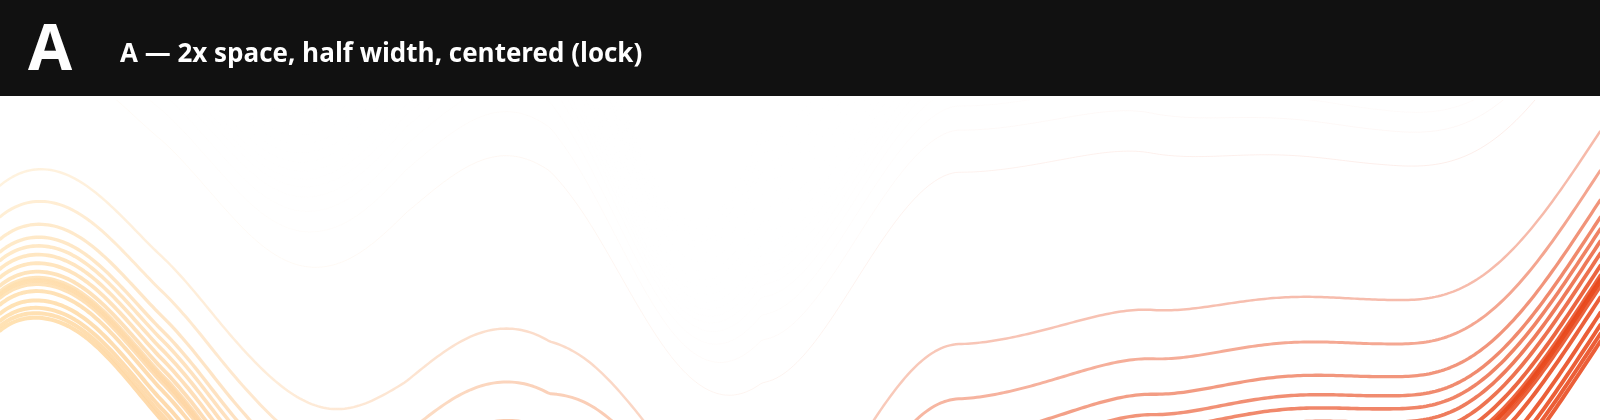
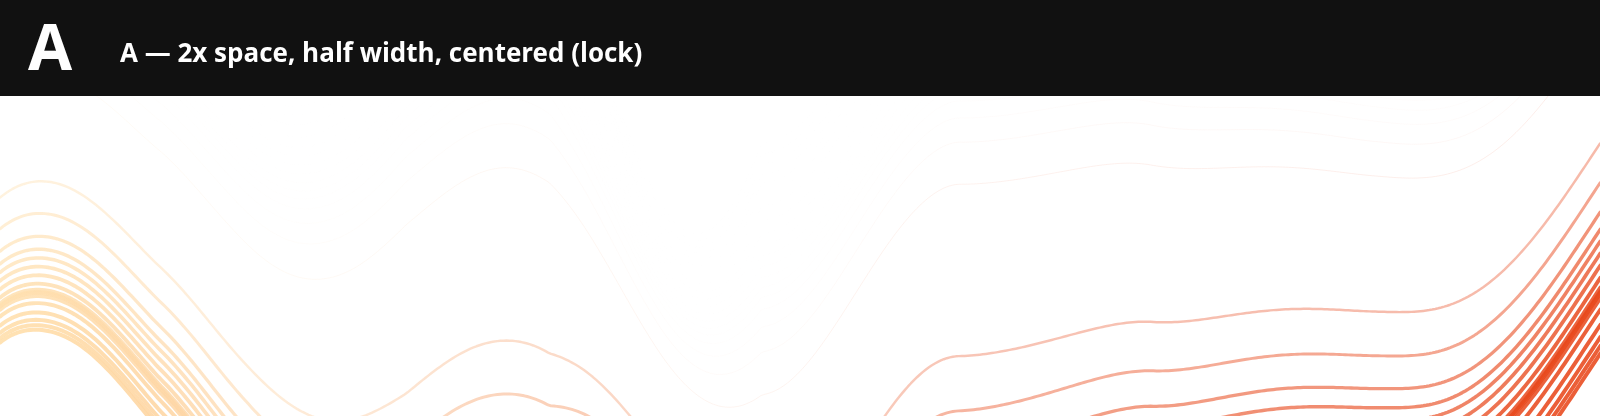
fix(lab): center Twizzler on visible ink so pack sits mid-frame (#CF-16)

diff --git a/apps/lab/src/twizzler.ts b/apps/lab/src/twizzler.ts
@@ -702,13 +702,15 @@ export function buildTwizzlerLines(
     });
   }
 
-  // Vertically center the pack so the average fiber sits mid-canvas.
+  // Vertically center on visible ink (ignore off-canvas outliers that bias the mean low).
   let ySum = 0;
   let yCount = 0;
   for (const line of lines) {
     for (const point of line.points) {
-      ySum += point.y;
-      yCount += 1;
+      if (point.y >= 0 && point.y <= pixelHeight) {
+        ySum += point.y;
+        yCount += 1;
+      }
     }
   }
   if (yCount > 0) {
